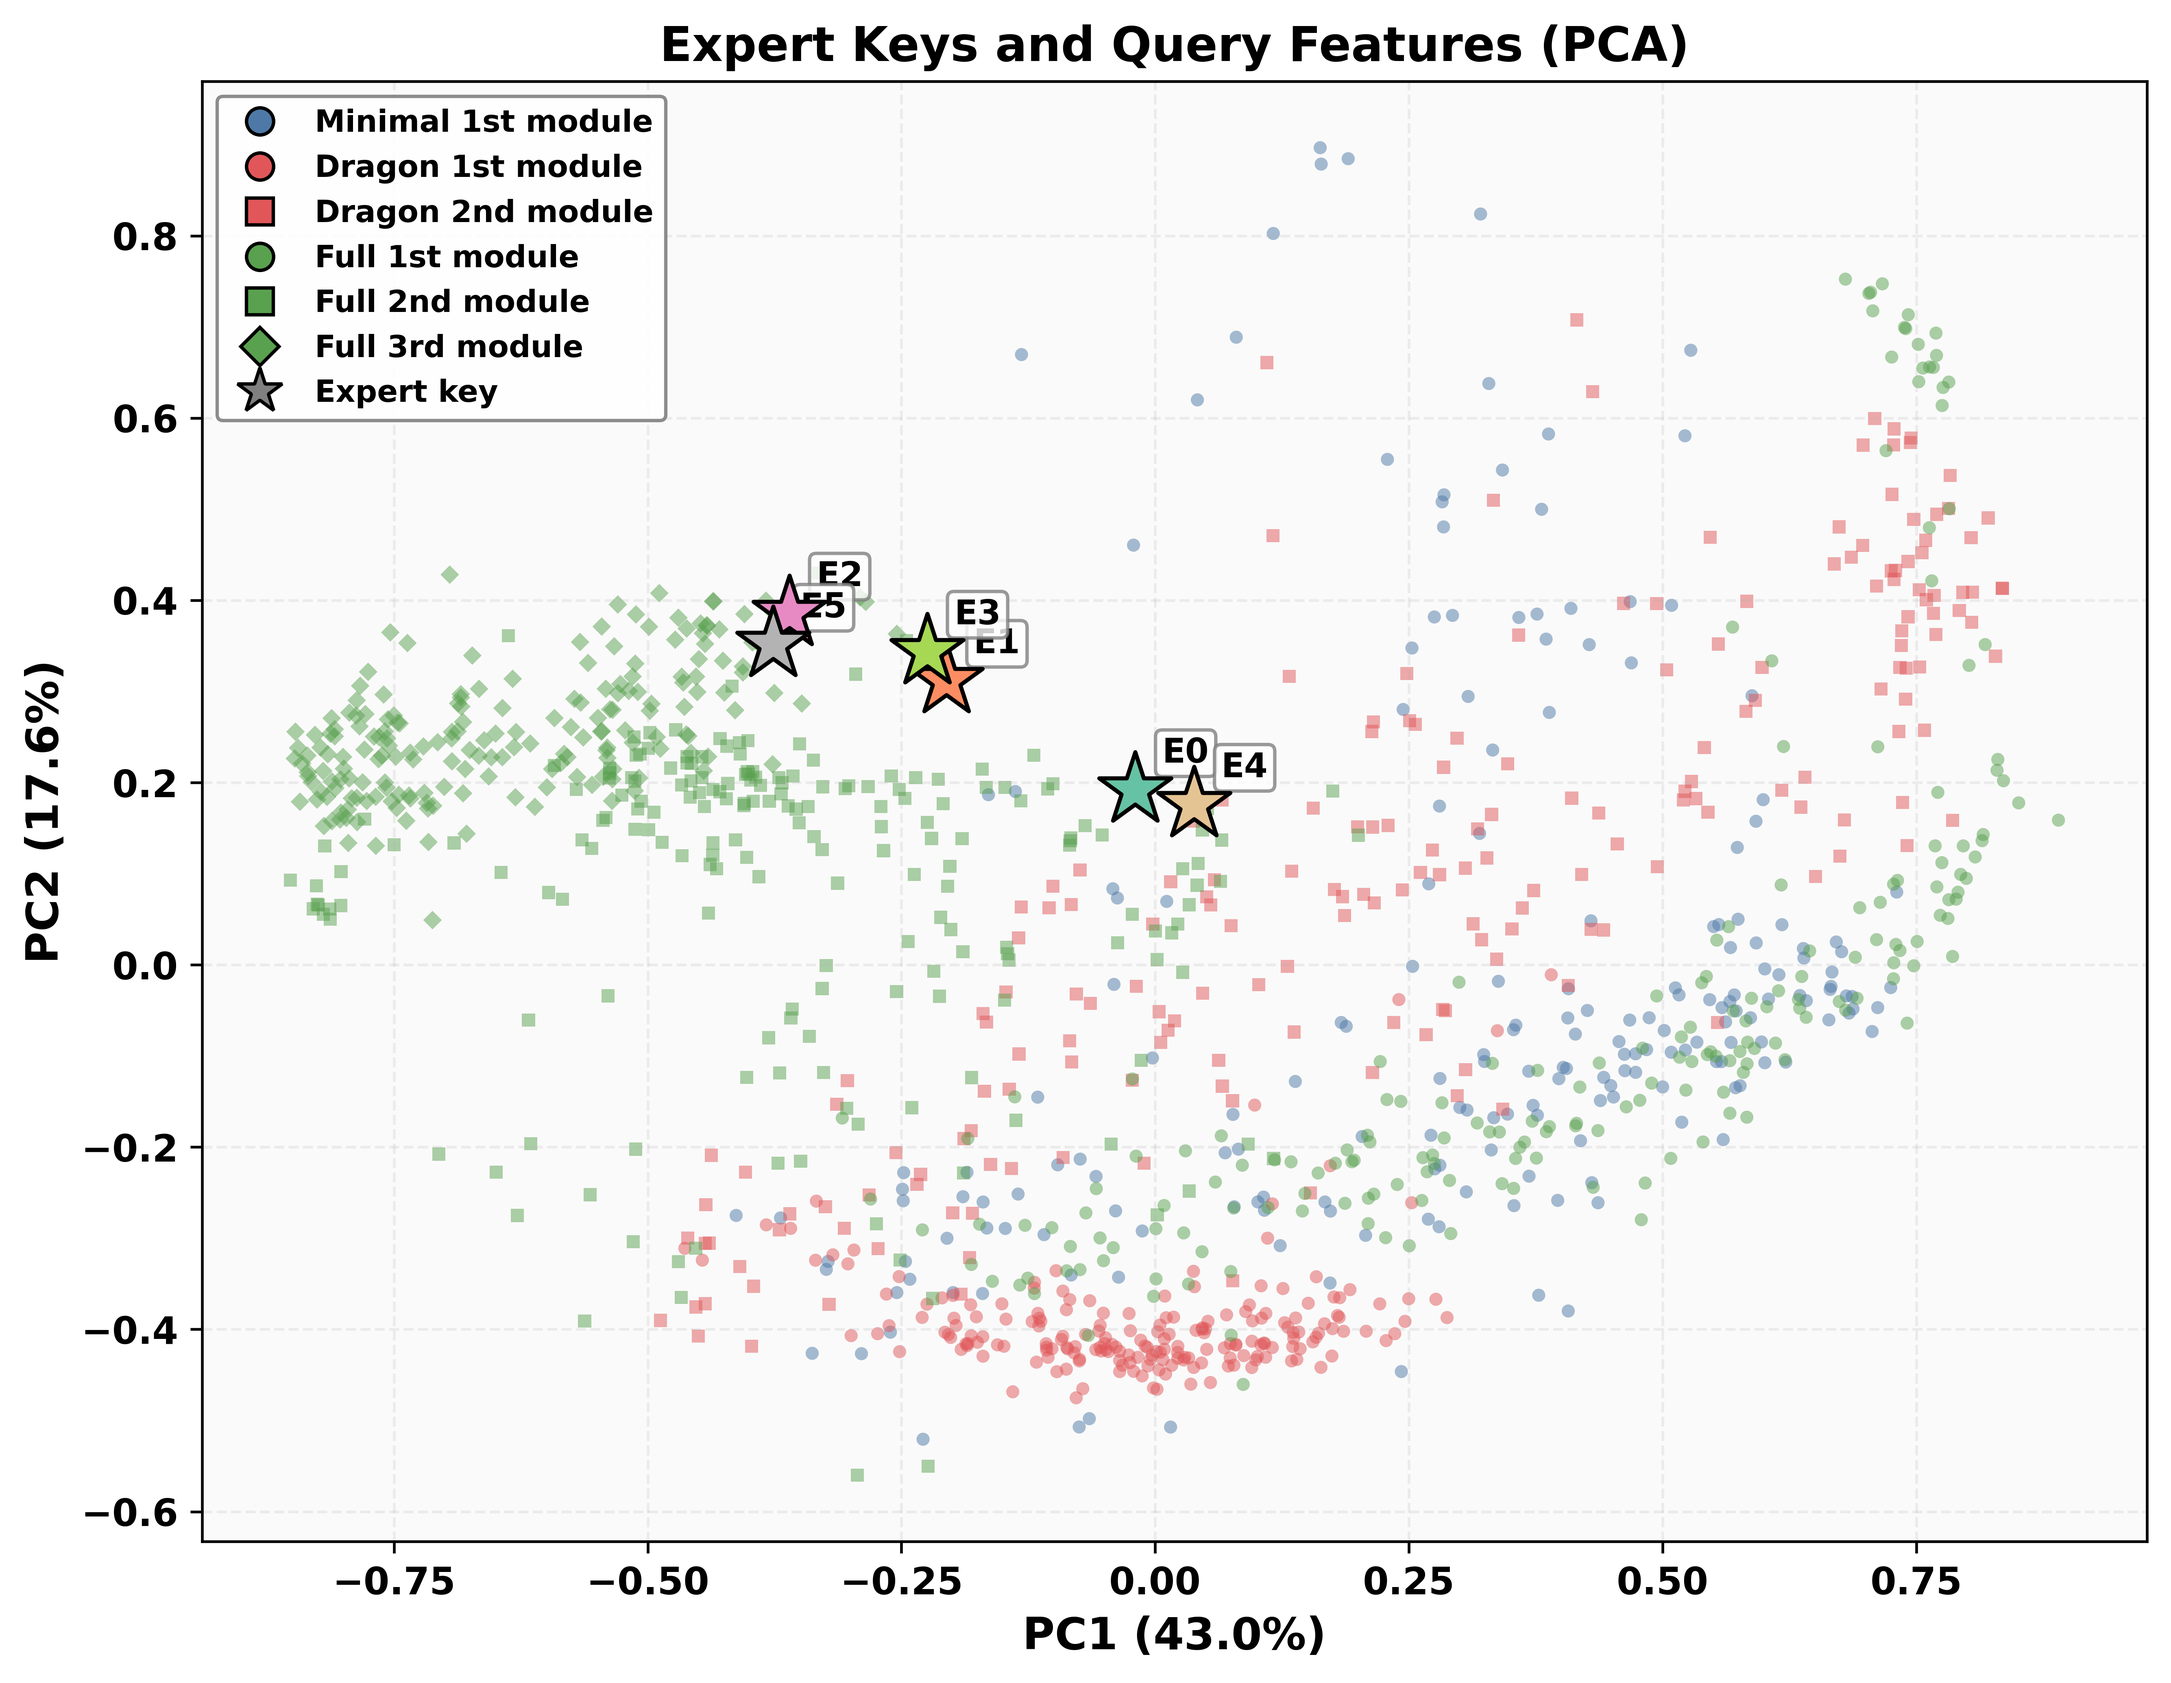
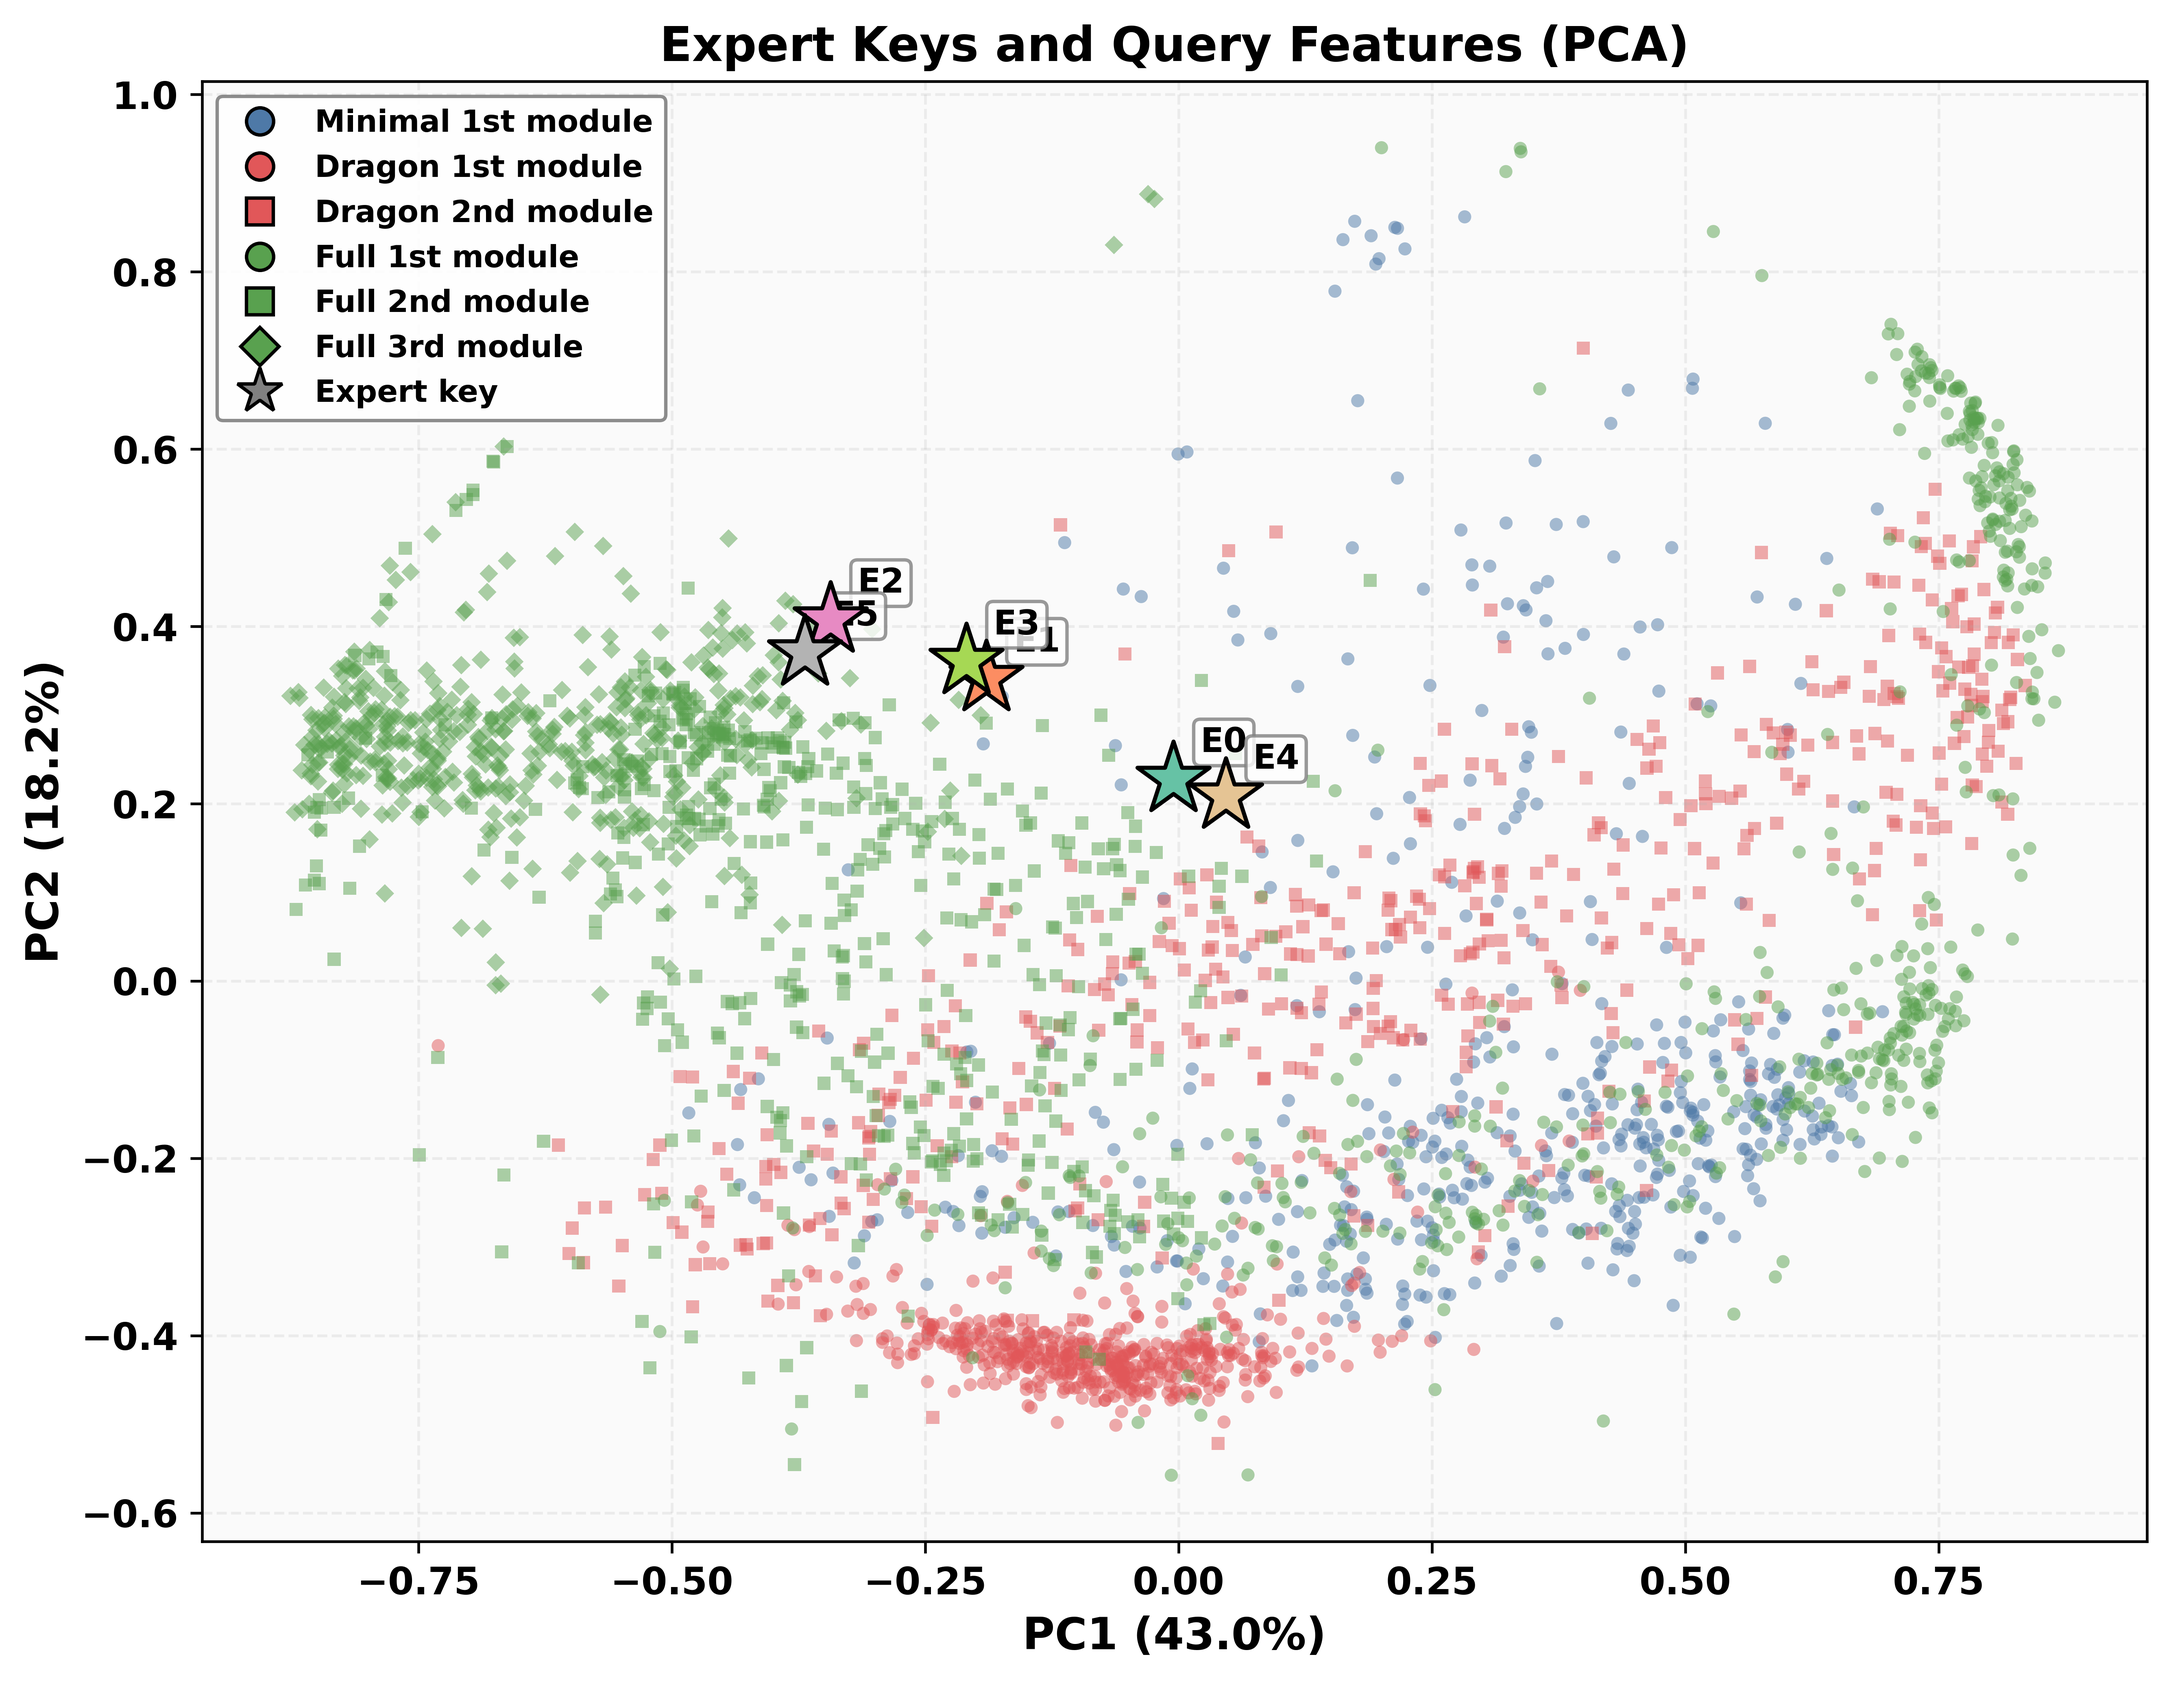
Upload img.

diff --git a/M2oE/scripts/play_key_query_pca.py b/M2oE/scripts/play_key_query_pca.py
@@ -15,7 +15,7 @@ parser.add_argument(
 )
 parser.add_argument("--num_envs", type=int, default=64, help="Number of environments to simulate.")
 parser.add_argument("--task", type=str, default="Integration_Locomotion_v1", help="Name of the task.")
-parser.add_argument("--max_query_samples", type=int, default=200, help="Max query samples per module to keep.")
+parser.add_argument("--max_query_samples", type=int, default=500, help="Max query samples per module to keep.")
 
 cli_args.add_m2oe_rl_args(parser)
 AppLauncher.add_app_launcher_args(parser)
